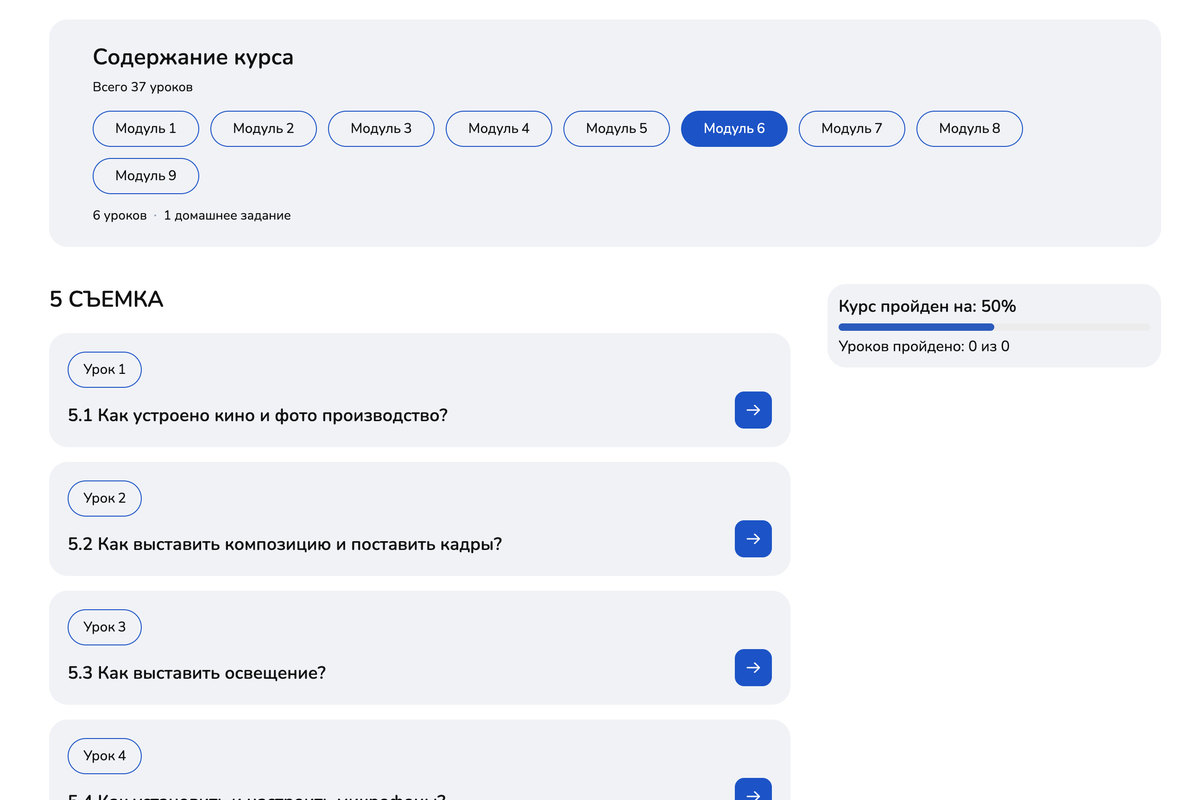
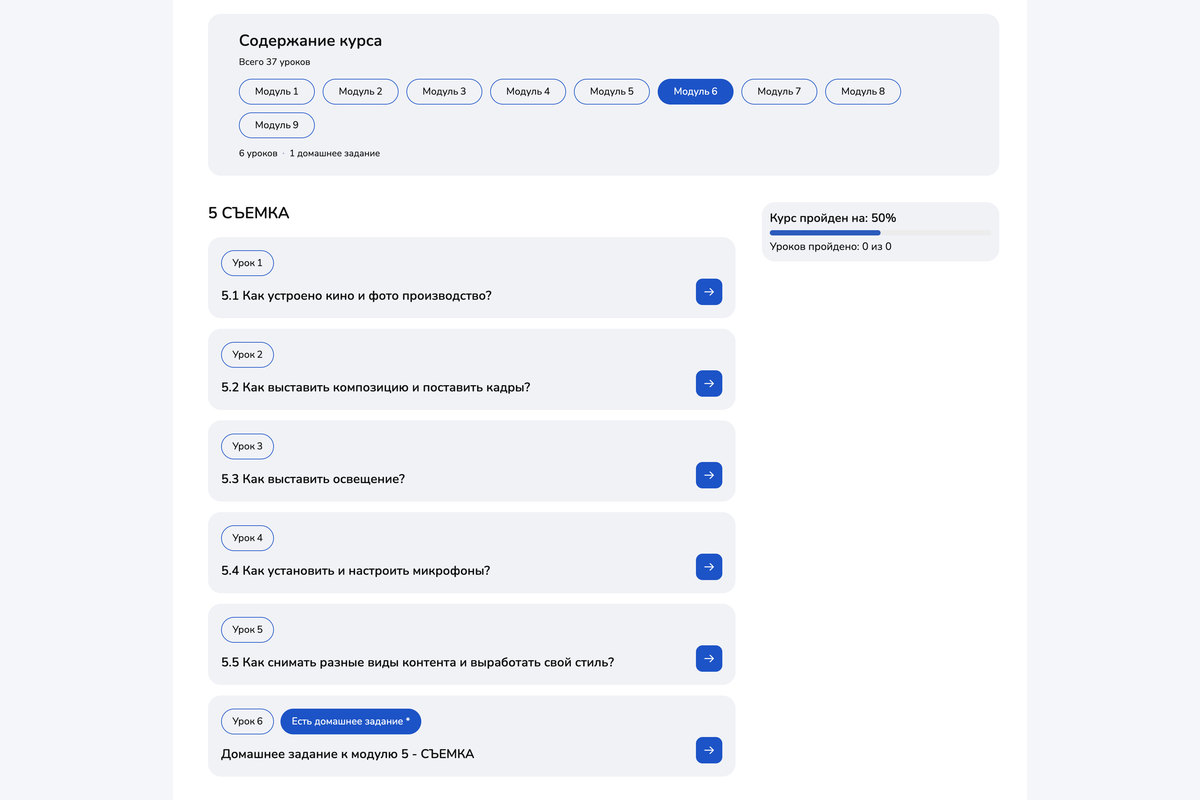
Секция process: сетка 3:2, 11 картинок в picture/webp, платформа без обрезки

diff --git a/index.html b/index.html
@@ -2532,107 +2532,93 @@
               </div>
               <ul class="how__bottom">
                 <li class="how__img-container">
-                  <img
-                    loading="lazy"
-                    class="owl-lazy lazy"
-                    data-src="https://Nikkola.github.io/creatoracademy/images/how/1.webp"
-                    src="https://Nikkola.github.io/creatoracademy/images/how/1.webp"
-                    alt="Как проходит обучение"
-                  />
+                  <picture>
+                    <source srcset="https://Nikkola.github.io/creatoracademy/images/how/v2/process-light.webp" type="image/webp" />
+                    <img class="how__img" loading="lazy" width="1200" height="800"
+                      src="https://Nikkola.github.io/creatoracademy/images/how/v2/process-light.jpg"
+                      alt="Николай ставит свет на съёмке урока" />
+                  </picture>
                 </li>
                 <li class="how__img-container">
-                  <img
-                    loading="lazy"
-                    class="owl-lazy lazy"
-                    data-src="https://Nikkola.github.io/creatoracademy/images/how/2.png"
-                    src="https://Nikkola.github.io/creatoracademy/images/how/2.png"
-                    alt="Как проходит обучение"
-                  />
+                  <picture>
+                    <source srcset="https://Nikkola.github.io/creatoracademy/images/how/v2/process-platform.webp" type="image/webp" />
+                    <img class="how__img" loading="lazy" width="1200" height="800"
+                      src="https://Nikkola.github.io/creatoracademy/images/how/v2/process-platform.jpg"
+                      alt="Личный кабинет курса со всеми уроками" />
+                  </picture>
                 </li>
                 <li class="how__img-container">
-                  <img
-                    loading="lazy"
-                    class="owl-lazy lazy"
-                    data-src="https://Nikkola.github.io/creatoracademy/images/how/6.jpg"
-                    src="https://Nikkola.github.io/creatoracademy/images/how/6.jpg"
-                    alt="Как проходит обучение"
-                  />
+                  <picture>
+                    <source srcset="https://Nikkola.github.io/creatoracademy/images/how/v2/process-call.webp" type="image/webp" />
+                    <img class="how__img" loading="lazy" width="1200" height="800"
+                      src="https://Nikkola.github.io/creatoracademy/images/how/v2/process-call.jpg"
+                      alt="Живой вебинар с участниками потока" />
+                  </picture>
                 </li>
                 <li class="how__img-container">
-                  <img
-                    loading="lazy"
-                    class="owl-lazy lazy"
-                    data-src="https://Nikkola.github.io/creatoracademy/images/how/5.jpg"
-                    src="https://Nikkola.github.io/creatoracademy/images/how/5.jpg"
-                    alt="Как проходит обучение"
-                  />
-                </li>   
-                <li class="how__img-container">
-                  <img
-                    loading="lazy"
-                    class="owl-lazy lazy"
-                    data-src="https://Nikkola.github.io/creatoracademy/images/how/3.jpg"
-                    src="https://Nikkola.github.io/creatoracademy/images/how/3.jpg"
-                    alt="Как проходит обучение"
-                  />
+                  <picture>
+                    <source srcset="https://Nikkola.github.io/creatoracademy/images/how/v2/material-storyboard.webp" type="image/webp" />
+                    <img class="how__img" loading="lazy" width="1200" height="800"
+                      src="https://Nikkola.github.io/creatoracademy/images/how/v2/material-storyboard.jpg"
+                      alt="Методичка: пример раскадровки сцены" />
+                  </picture>
                 </li>
                 <li class="how__img-container">
-                  <img
-                    loading="lazy"
-                    class="owl-lazy lazy"
-                    data-src="https://Nikkola.github.io/creatoracademy/images/how/11.png"
-                    src="https://Nikkola.github.io/creatoracademy/images/how/11.png"
-                    alt="Как проходит обучение"
-                  />
-                </li>
-
-                <li class="how__img-container">
-                  <img
-                    loading="lazy"
-                    class="owl-lazy lazy"
-                    data-src="https://Nikkola.github.io/creatoracademy/images/how/7.jpg"
-                    src="https://Nikkola.github.io/creatoracademy/images/how/7.jpg"
-                    alt="Как проходит обучение"
-                  />
+                  <picture>
+                    <source srcset="https://Nikkola.github.io/creatoracademy/images/how/v2/material-cheatsheet.webp" type="image/webp" />
+                    <img class="how__img" loading="lazy" width="1200" height="800"
+                      src="https://Nikkola.github.io/creatoracademy/images/how/v2/material-cheatsheet.jpg"
+                      alt="Методичка: шпаргалка по съёмке" />
+                  </picture>
                 </li>
                 <li class="how__img-container">
-                  <img
-                    loading="lazy"
-                    class="owl-lazy lazy"
-                    data-src="https://Nikkola.github.io/creatoracademy/images/how/8.jpg"
-                    src="https://Nikkola.github.io/creatoracademy/images/how/8.jpg"
-                    alt="Как проходит обучение"
-                  />
+                  <picture>
+                    <source srcset="https://Nikkola.github.io/creatoracademy/images/how/v2/material-story-arc.webp" type="image/webp" />
+                    <img class="how__img" loading="lazy" width="1200" height="800"
+                      src="https://Nikkola.github.io/creatoracademy/images/how/v2/material-story-arc.jpg"
+                      alt="Методичка: структура истории по трём актам" />
+                  </picture>
                 </li>
-<!--                 <li class="how__img-container">
-                  <img
-                    loading="lazy"
-                    class="owl-lazy lazy"
-                    data-src="https://Nikkola.github.io/creatoracademy/images/how/9.jpg"
-                    src="https://Nikkola.github.io/creatoracademy/images/how/9.jpg"
-                    alt="Как проходит обучение"
-                  />
-                </li>                
                 <li class="how__img-container">
-                  <img
-                    loading="lazy"
-                    class="owl-lazy lazy"
-                    data-src="https://Nikkola.github.io/creatoracademy/images/how/10.jpg"
-                    src="https://Nikkola.github.io/creatoracademy/images/how/10.jpg"
-                    alt="Как проходит обучение"
-                  />
-                </li> -->
-
-                <li class="how__img-container">
-                  <img
-                    loading="lazy"
-                    class="owl-lazy lazy"
-                    data-src="https://Nikkola.github.io/creatoracademy/images/how/4.jpg"
-                    src="https://Nikkola.github.io/creatoracademy/images/how/4.jpg"
-                    alt="Как проходит обучение"
-                  />
+                  <picture>
+                    <source srcset="https://Nikkola.github.io/creatoracademy/images/how/v2/material-exposure.webp" type="image/webp" />
+                    <img class="how__img" loading="lazy" width="1200" height="800"
+                      src="https://Nikkola.github.io/creatoracademy/images/how/v2/material-exposure.jpg"
+                      alt="Методичка: пятиугольник экспозиции" />
+                  </picture>
                 </li>
-
+                <li class="how__img-container">
+                  <picture>
+                    <source srcset="https://Nikkola.github.io/creatoracademy/images/how/v2/material-thumbnail.webp" type="image/webp" />
+                    <img class="how__img" loading="lazy" width="1200" height="800"
+                      src="https://Nikkola.github.io/creatoracademy/images/how/v2/material-thumbnail.jpg"
+                      alt="Методичка: анатомия обложки видео" />
+                  </picture>
+                </li>
+                <li class="how__img-container">
+                  <picture>
+                    <source srcset="https://Nikkola.github.io/creatoracademy/images/how/v2/process-studio.webp" type="image/webp" />
+                    <img class="how__img" loading="lazy" width="1200" height="800"
+                      src="https://Nikkola.github.io/creatoracademy/images/how/v2/process-studio.jpg"
+                      alt="Съёмка интервью в студии" />
+                  </picture>
+                </li>
+                <li class="how__img-container">
+                  <picture>
+                    <source srcset="https://Nikkola.github.io/creatoracademy/images/how/v2/process-chat.webp" type="image/webp" />
+                    <img class="how__img" loading="lazy" width="1200" height="800"
+                      src="https://Nikkola.github.io/creatoracademy/images/how/v2/process-chat.jpg"
+                      alt="Чат поддержки участников курса" />
+                  </picture>
+                </li>
+                <li class="how__img-container">
+                  <picture>
+                    <source srcset="https://Nikkola.github.io/creatoracademy/images/how/v2/process-monitor.webp" type="image/webp" />
+                    <img class="how__img" loading="lazy" width="1200" height="800"
+                      src="https://Nikkola.github.io/creatoracademy/images/how/v2/process-monitor.jpg"
+                      alt="Просмотр отснятого материала на мониторе" />
+                  </picture>
+                </li>
               </ul>
             </section>
           </div>

diff --git a/css/how.css b/css/how.css
@@ -46,22 +46,23 @@
 }
 
 .how__bottom {
-  flex-wrap: wrap;
-  display: -webkit-box;
-  display: -ms-flexbox;
-  display: flex;
-  gap: 20px;
-  -webkit-box-align: start;
-  -ms-flex-align: start;
-  align-items: flex-start;
+  display: grid;
+  grid-template-columns: 1fr;
+  gap: 10px;
 }
 
 .how__img-container {
-  width: 33%;
+  width: 100%;
+  overflow: hidden;
 }
 
-.how__img-container:last-child {
-  display: none;
+.how__img {
+  display: block;
+  width: 100%;
+  height: auto;
+  aspect-ratio: 3 / 2;
+  -o-object-fit: cover;
+  object-fit: cover;
 }
 
 @media (min-width: 768px) {
@@ -98,16 +99,8 @@
   }
 
   .how__bottom {
+    grid-template-columns: repeat(2, 1fr);
     gap: 10px;
-  }
-
-  .how__img-container:first-child {
-    width: 71%;
-  }
-
-  .how__img-container:last-child {
-    display: block;
-    width: 30%;
   }
 }
 
@@ -141,8 +134,8 @@
     width: 100%;
   }
 
-  .how__img-container:first-child {
-    width: 27%;
+  .how__bottom {
+    grid-template-columns: repeat(3, 1fr);
   }
 }
 
